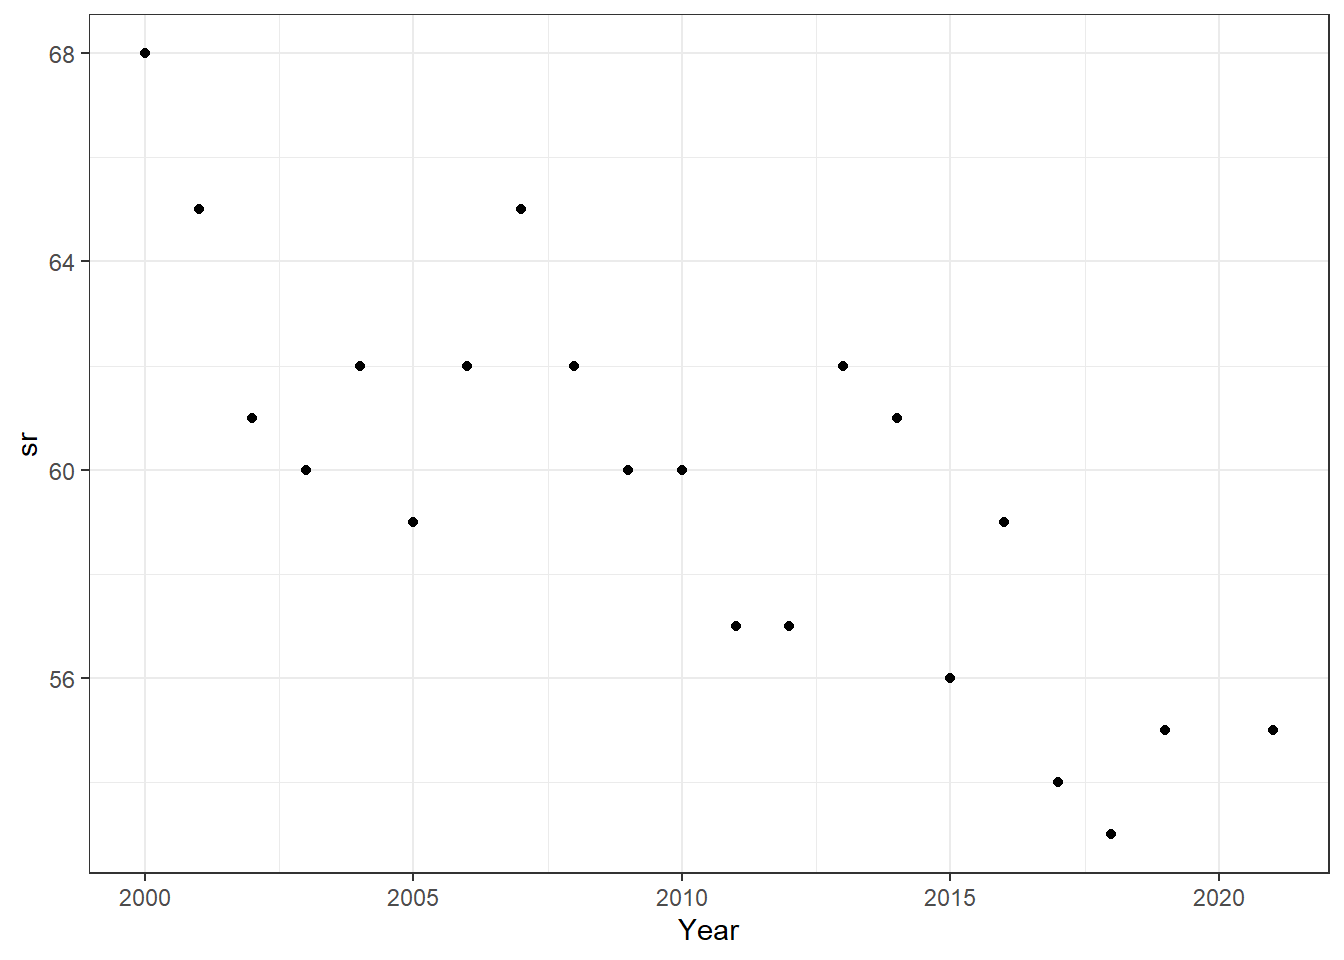
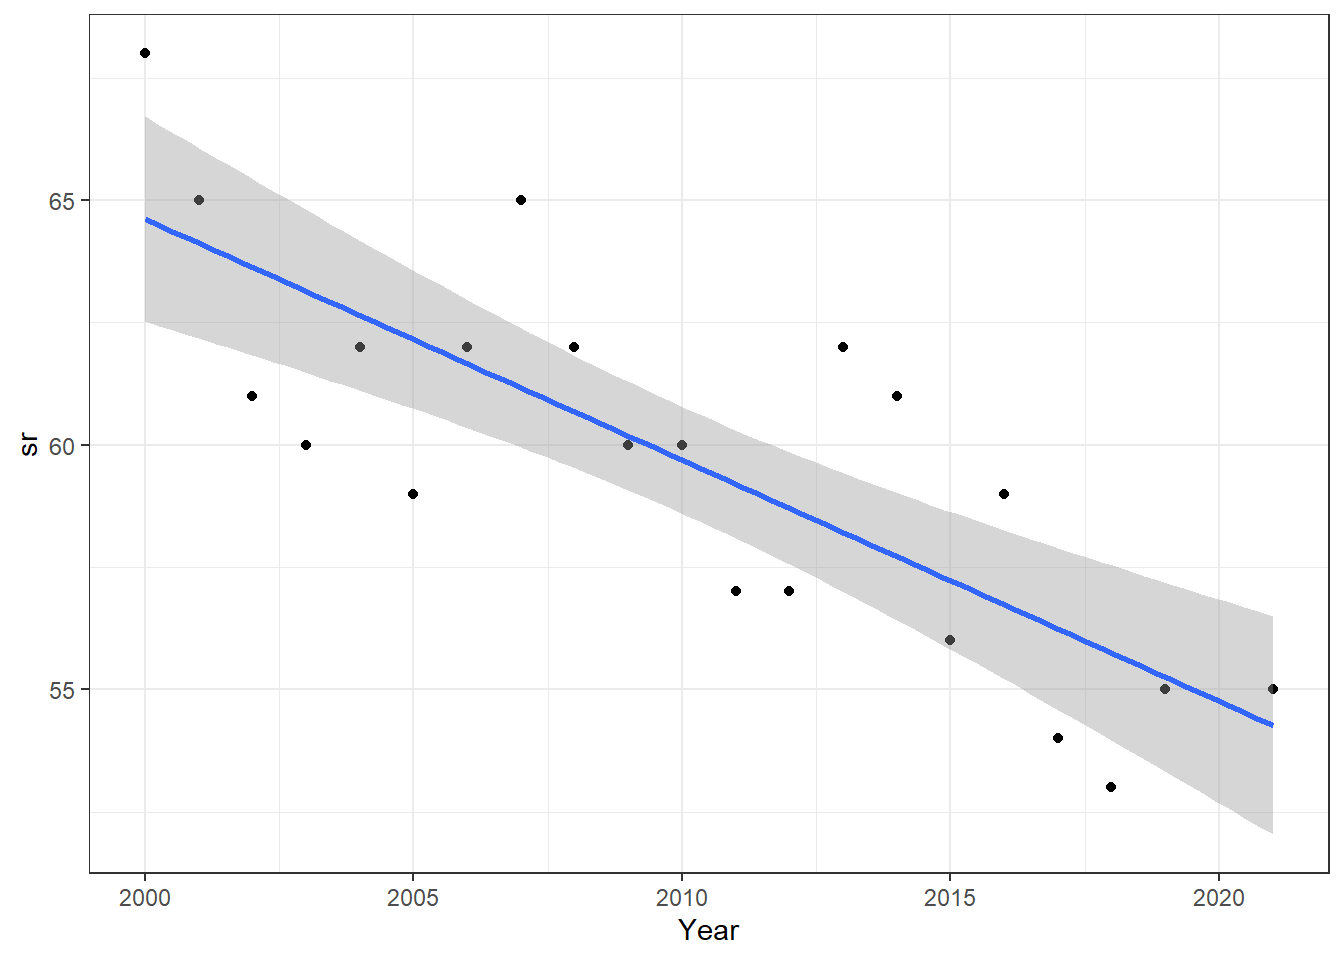
adding polynomial regression Week 6

diff --git a/Practical_classes/Week6_biodiversity_change/practical_week_6.html b/Practical_classes/Week6_biodiversity_change/practical_week_6.html
@@ -106,7 +106,11 @@ code span.wa { color: #60a0b0; font-weight: bold; font-style: italic; } /* Warni
    
   <ul>
   <li><a href="#assessing-temporal-change-of-diversity" id="toc-assessing-temporal-change-of-diversity" class="nav-link active" data-scroll-target="#assessing-temporal-change-of-diversity">Assessing temporal change of diversity</a></li>
-  <li><a href="#temporal-changes-of-species-richness" id="toc-temporal-changes-of-species-richness" class="nav-link" data-scroll-target="#temporal-changes-of-species-richness">Temporal changes of species richness</a></li>
+  <li><a href="#temporal-changes-of-species-richness" id="toc-temporal-changes-of-species-richness" class="nav-link" data-scroll-target="#temporal-changes-of-species-richness">Temporal changes of species richness</a>
+  <ul class="collapse">
+  <li><a href="#using-simple-linear-regression" id="toc-using-simple-linear-regression" class="nav-link" data-scroll-target="#using-simple-linear-regression">Using simple linear regression</a></li>
+  <li><a href="#using-polynomial-regression" id="toc-using-polynomial-regression" class="nav-link" data-scroll-target="#using-polynomial-regression">Using polynomial regression</a></li>
+  </ul></li>
   <li><a href="#assessing-colonization-extinction-and-persistence" id="toc-assessing-colonization-extinction-and-persistence" class="nav-link" data-scroll-target="#assessing-colonization-extinction-and-persistence">Assessing colonization, extinction and persistence</a></li>
   </ul>
 </nav>
@@ -149,6 +153,8 @@ code span.wa { color: #60a0b0; font-weight: bold; font-style: italic; } /* Warni
 </section>
 <section id="temporal-changes-of-species-richness" class="level1">
 <h1>Temporal changes of species richness</h1>
+<section id="using-simple-linear-regression" class="level2">
+<h2 class="anchored" data-anchor-id="using-simple-linear-regression">Using simple linear regression</h2>
 <p>We will first see how species richness has changed through time for the different BBS roads.</p>
 <div class="cell">
 <div class="sourceCode cell-code" id="cb1"><pre class="sourceCode r code-with-copy"><code class="sourceCode r"><span id="cb1-1"><a href="#cb1-1" aria-hidden="true" tabindex="-1"></a><span class="fu">rm</span>(<span class="at">list =</span> <span class="fu">ls</span>())</span>
@@ -215,7 +221,8 @@ code span.wa { color: #60a0b0; font-weight: bold; font-style: italic; } /* Warni
 <span id="cb4-7"><a href="#cb4-7" aria-hidden="true" tabindex="-1"></a>  <span class="do">#### and plot the value of species richness against time</span></span>
 <span id="cb4-8"><a href="#cb4-8" aria-hidden="true" tabindex="-1"></a>  <span class="fu">ggplot</span>(<span class="fu">aes</span>(<span class="at">x =</span> Year, <span class="at">y =</span> sr))<span class="sc">+</span></span>
 <span id="cb4-9"><a href="#cb4-9" aria-hidden="true" tabindex="-1"></a>  <span class="fu">geom_point</span>()<span class="sc">+</span></span>
-<span id="cb4-10"><a href="#cb4-10" aria-hidden="true" tabindex="-1"></a>  <span class="fu">theme_bw</span>()</span></code><button title="Copy to Clipboard" class="code-copy-button"><i class="bi"></i></button></pre></div>
+<span id="cb4-10"><a href="#cb4-10" aria-hidden="true" tabindex="-1"></a>  <span class="fu">geom_smooth</span>(<span class="at">method =</span> <span class="st">"lm"</span>)<span class="sc">+</span></span>
+<span id="cb4-11"><a href="#cb4-11" aria-hidden="true" tabindex="-1"></a>  <span class="fu">theme_bw</span>()</span></code><button title="Copy to Clipboard" class="code-copy-button"><i class="bi"></i></button></pre></div>
 <div class="cell-output-display">
 <p><img src="practical_week_6_files/figure-html/unnamed-chunk-3-1.png" class="img-fluid" width="672"></p>
 </div>
@@ -250,6 +257,66 @@ code span.wa { color: #60a0b0; font-weight: bold; font-style: italic; } /* Warni
 <p><img src="practical_week_6_files/figure-html/unnamed-chunk-5-1.png" class="img-fluid" width="672"></p>
 </div>
 </div>
+</section>
+<section id="using-polynomial-regression" class="level2">
+<h2 class="anchored" data-anchor-id="using-polynomial-regression">Using polynomial regression</h2>
+<p>Polynomial regression is a specific case of a linear regression. Even though the final function is not linear, the coefficients of each order of <span class="math inline">\(x\)</span> are linear:</p>
+<p><span class="math display">\[y = \beta_1x_1 + \beta_2x_1^2 + \beta_3x_1^3 \ldots \beta _nx_1^n + \beta_0\]</span></p>
+<p>Let’s use a time series of another random road:</p>
+<div class="cell">
+<div class="sourceCode cell-code" id="cb6"><pre class="sourceCode r code-with-copy"><code class="sourceCode r"><span id="cb6-1"><a href="#cb6-1" aria-hidden="true" tabindex="-1"></a>species_richness <span class="sc">%&gt;%</span> </span>
+<span id="cb6-2"><a href="#cb6-2" aria-hidden="true" tabindex="-1"></a>  <span class="fu">filter</span>(CountryNum <span class="sc">==</span> <span class="dv">840</span>,</span>
+<span id="cb6-3"><a href="#cb6-3" aria-hidden="true" tabindex="-1"></a>         StateNum <span class="sc">==</span> <span class="st">"25"</span>,</span>
+<span id="cb6-4"><a href="#cb6-4" aria-hidden="true" tabindex="-1"></a>         Route <span class="sc">==</span> <span class="st">"025"</span>) <span class="sc">%&gt;%</span> </span>
+<span id="cb6-5"><a href="#cb6-5" aria-hidden="true" tabindex="-1"></a>  <span class="do">#### and plot the value of species richness against time</span></span>
+<span id="cb6-6"><a href="#cb6-6" aria-hidden="true" tabindex="-1"></a>  <span class="fu">ggplot</span>(<span class="fu">aes</span>(<span class="at">x =</span> Year, <span class="at">y =</span> sr))<span class="sc">+</span></span>
+<span id="cb6-7"><a href="#cb6-7" aria-hidden="true" tabindex="-1"></a>  <span class="fu">geom_point</span>()<span class="sc">+</span></span>
+<span id="cb6-8"><a href="#cb6-8" aria-hidden="true" tabindex="-1"></a>  <span class="co"># geom_smooth(method = "lm")+</span></span>
+<span id="cb6-9"><a href="#cb6-9" aria-hidden="true" tabindex="-1"></a>  <span class="fu">theme_bw</span>()</span></code><button title="Copy to Clipboard" class="code-copy-button"><i class="bi"></i></button></pre></div>
+<div class="cell-output-display">
+<p><img src="practical_week_6_files/figure-html/unnamed-chunk-6-1.png" class="img-fluid" width="672"></p>
+</div>
+</div>
+<p>As you can see, this time the relationship does not really seem linear. So let’s fit polynomial regressions (<em>i.e.</em> quadratic, cubic…) and see how the regressions look like.</p>
+<div class="cell">
+<div class="sourceCode cell-code" id="cb7"><pre class="sourceCode r code-with-copy"><code class="sourceCode r"><span id="cb7-1"><a href="#cb7-1" aria-hidden="true" tabindex="-1"></a>poly_data <span class="ot">&lt;-</span> </span>
+<span id="cb7-2"><a href="#cb7-2" aria-hidden="true" tabindex="-1"></a>  species_richness <span class="sc">%&gt;%</span> </span>
+<span id="cb7-3"><a href="#cb7-3" aria-hidden="true" tabindex="-1"></a>  <span class="fu">filter</span>(CountryNum <span class="sc">==</span> <span class="dv">840</span>,</span>
+<span id="cb7-4"><a href="#cb7-4" aria-hidden="true" tabindex="-1"></a>         StateNum <span class="sc">==</span> <span class="st">"25"</span>,</span>
+<span id="cb7-5"><a href="#cb7-5" aria-hidden="true" tabindex="-1"></a>         Route <span class="sc">==</span> <span class="st">"025"</span>)</span>
+<span id="cb7-6"><a href="#cb7-6" aria-hidden="true" tabindex="-1"></a></span>
+<span id="cb7-7"><a href="#cb7-7" aria-hidden="true" tabindex="-1"></a>poly_1 <span class="ot">&lt;-</span> <span class="fu">lm</span>(sr <span class="sc">~</span> <span class="fu">poly</span>(Year, <span class="dv">1</span>), <span class="at">data =</span> poly_data)</span>
+<span id="cb7-8"><a href="#cb7-8" aria-hidden="true" tabindex="-1"></a>poly_2 <span class="ot">&lt;-</span> <span class="fu">lm</span>(sr <span class="sc">~</span> <span class="fu">poly</span>(Year, <span class="dv">2</span>), <span class="at">data =</span> poly_data)</span>
+<span id="cb7-9"><a href="#cb7-9" aria-hidden="true" tabindex="-1"></a>poly_3 <span class="ot">&lt;-</span> <span class="fu">lm</span>(sr <span class="sc">~</span> <span class="fu">poly</span>(Year, <span class="dv">3</span>), <span class="at">data =</span> poly_data)</span>
+<span id="cb7-10"><a href="#cb7-10" aria-hidden="true" tabindex="-1"></a>poly_4 <span class="ot">&lt;-</span> <span class="fu">lm</span>(sr <span class="sc">~</span> <span class="fu">poly</span>(Year, <span class="dv">4</span>), <span class="at">data =</span> poly_data)</span>
+<span id="cb7-11"><a href="#cb7-11" aria-hidden="true" tabindex="-1"></a></span>
+<span id="cb7-12"><a href="#cb7-12" aria-hidden="true" tabindex="-1"></a><span class="fu">ggplot</span>()<span class="sc">+</span></span>
+<span id="cb7-13"><a href="#cb7-13" aria-hidden="true" tabindex="-1"></a>  <span class="fu">geom_line</span>(<span class="fu">aes</span>(<span class="at">x =</span> poly_data<span class="sc">$</span>Year, <span class="at">y =</span> poly_1<span class="sc">$</span>fitted.values, <span class="at">color =</span> <span class="st">"poly_1"</span>))<span class="sc">+</span></span>
+<span id="cb7-14"><a href="#cb7-14" aria-hidden="true" tabindex="-1"></a>  <span class="fu">geom_line</span>(<span class="fu">aes</span>(<span class="at">x =</span> poly_data<span class="sc">$</span>Year, <span class="at">y =</span> poly_2<span class="sc">$</span>fitted.values, <span class="at">color =</span> <span class="st">"poly_2"</span>))<span class="sc">+</span></span>
+<span id="cb7-15"><a href="#cb7-15" aria-hidden="true" tabindex="-1"></a>  <span class="fu">geom_line</span>(<span class="fu">aes</span>(<span class="at">x =</span> poly_data<span class="sc">$</span>Year, <span class="at">y =</span> poly_3<span class="sc">$</span>fitted.values, <span class="at">color =</span> <span class="st">"poly_3"</span>))<span class="sc">+</span></span>
+<span id="cb7-16"><a href="#cb7-16" aria-hidden="true" tabindex="-1"></a>  <span class="fu">geom_line</span>(<span class="fu">aes</span>(<span class="at">x =</span> poly_data<span class="sc">$</span>Year, <span class="at">y =</span> poly_4<span class="sc">$</span>fitted.values, <span class="at">color =</span> <span class="st">"poly_4"</span>))<span class="sc">+</span></span>
+<span id="cb7-17"><a href="#cb7-17" aria-hidden="true" tabindex="-1"></a>  <span class="fu">geom_point</span>(<span class="fu">aes</span>(<span class="at">x =</span> Year, <span class="at">y =</span> sr), <span class="at">data =</span> poly_data)<span class="sc">+</span></span>
+<span id="cb7-18"><a href="#cb7-18" aria-hidden="true" tabindex="-1"></a>  <span class="fu">theme_bw</span>()</span></code><button title="Copy to Clipboard" class="code-copy-button"><i class="bi"></i></button></pre></div>
+<div class="cell-output-display">
+<p><img src="practical_week_6_files/figure-html/unnamed-chunk-7-1.png" class="img-fluid" width="672"></p>
+</div>
+</div>
+<p>You can see that the higher the order of the polynomial, the higher the flexibility of the model.</p>
+<div class="cell">
+<div class="cell-output cell-output-stdout">
+<pre><code>[1] "R² poly1 = 0.152154474989737"</code></pre>
+</div>
+<div class="cell-output cell-output-stdout">
+<pre><code>[1] "R² poly2 = 0.350569287307634"</code></pre>
+</div>
+<div class="cell-output cell-output-stdout">
+<pre><code>[1] "R² poly3 = 0.707473782067586"</code></pre>
+</div>
+<div class="cell-output cell-output-stdout">
+<pre><code>[1] "R² poly4 = 0.702284540611484"</code></pre>
+</div>
+</div>
+</section>
 </section>
 <section id="assessing-colonization-extinction-and-persistence" class="level1">
 <h1>Assessing colonization, extinction and persistence</h1>
